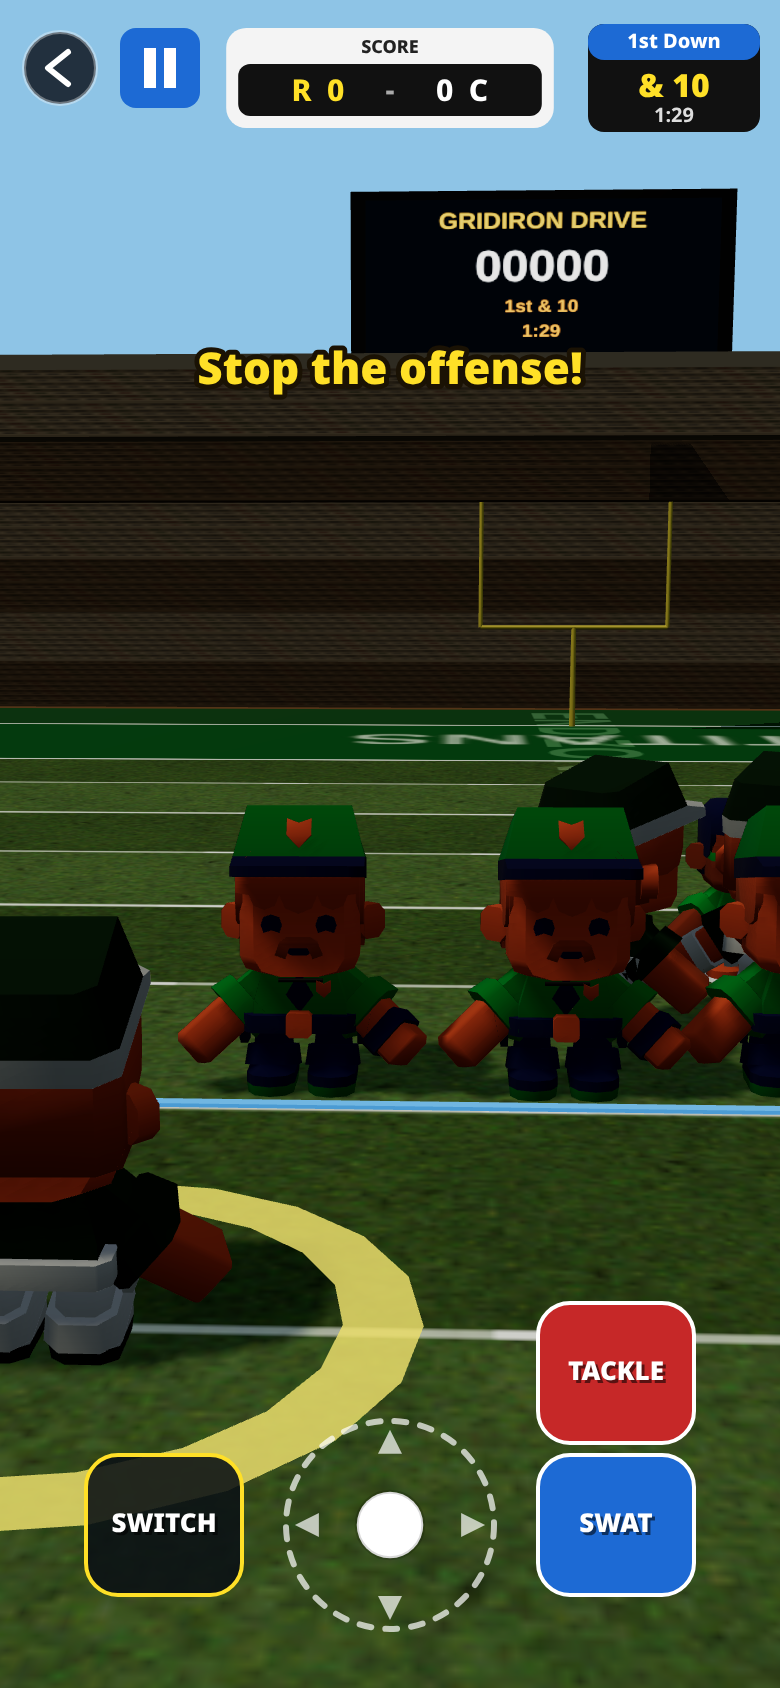
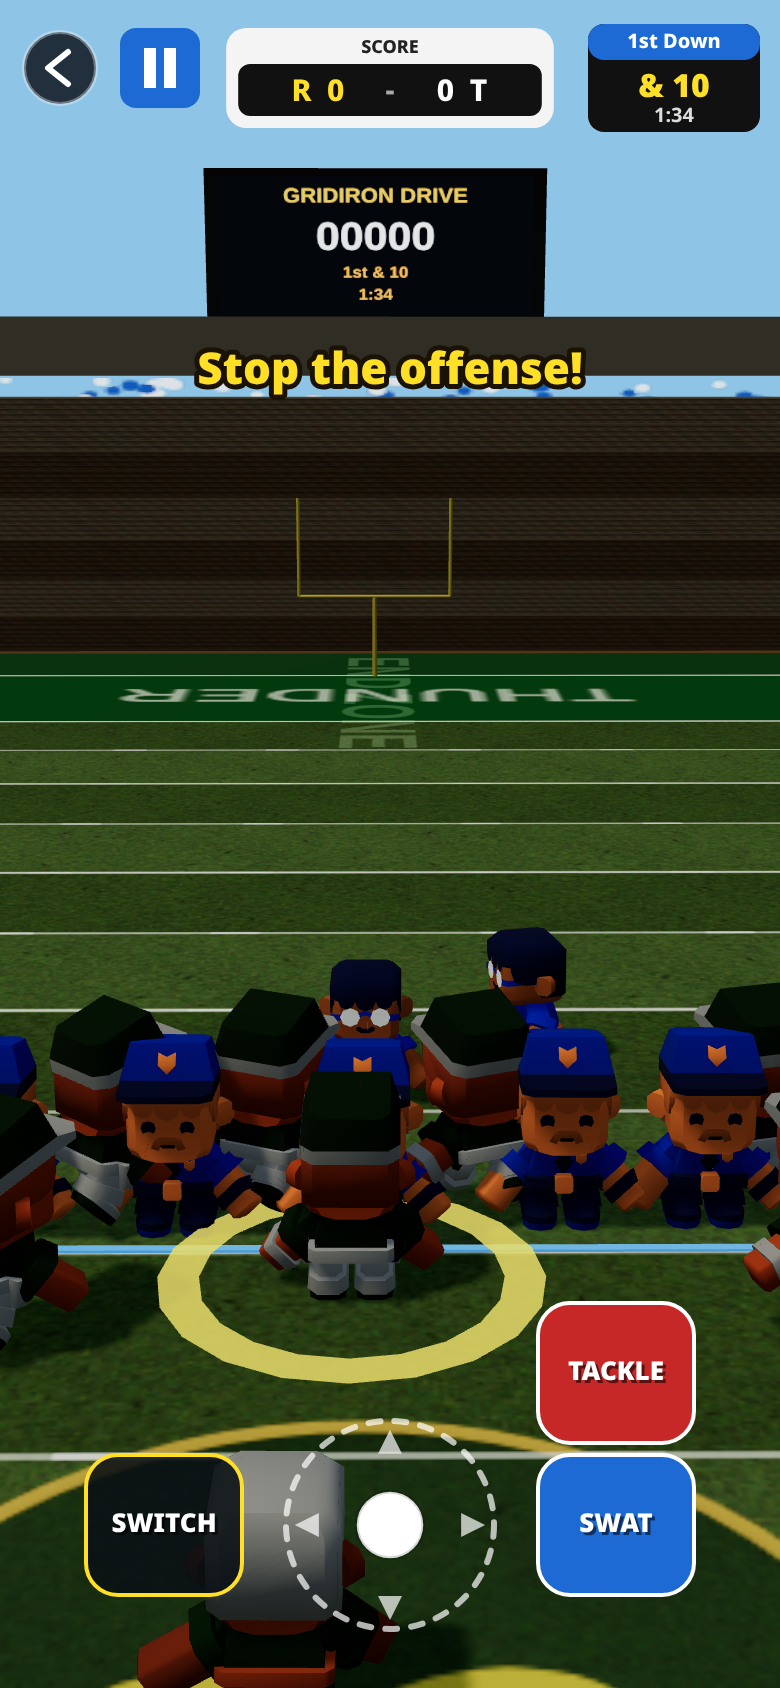
Rebalance user defense tackles and pull the camera back
AI teammates now contain instead of finishing plays before you can,
with a delayed wrap window; the user defender is faster with a longer
tackle/dive reach, and only the user can tackle in Defense Drill.
Default camera is a higher Madden-style view (Close / Madden / Far).

diff --git a/index.html b/index.html
@@ -48,6 +48,7 @@ function(t,e){"object"==typeof exports&&"undefined"!=typeof module?e(exports):"f
 
 
 
+
 (() => {
   "use strict";
 
@@ -161,12 +162,13 @@ function(t,e){"object"==typeof exports&&"undefined"!=typeof module?e(exports):"f
     state.best = parseInt(localStorage.getItem("gridironDriveBest") || "0", 10) || 0;
   } catch (e) { state.best = 0; }
   function defaultSettings() {
-    return { sound: true, vibrate: true, difficulty: "normal", camera: "standard", night: false };
+    return { sound: true, vibrate: true, difficulty: "normal", camera: "madden", night: false };
   }
   function loadSettings() {
     try {
-      const s = JSON.parse(localStorage.getItem("gridironDriveSettings") || "null");
-      return Object.assign(defaultSettings(), s || {});
+      const s = Object.assign(defaultSettings(), JSON.parse(localStorage.getItem("gridironDriveSettings") || "null") || {});
+      if (s.camera === "standard") s.camera = "madden";
+      return s;
     } catch (e) { return defaultSettings(); }
   }
   function saveSettings() {
@@ -176,6 +178,8 @@ function(t,e){"object"==typeof exports&&"undefined"!=typeof module?e(exports):"f
   state.muted = !state.settings.sound;
   const DIFF_MUL = { easy: 0.86, normal: 1, hard: 1.16 };
   const TACKLE_R = 1.08;
+  const USER_TACKLE_R = 1.62;
+  const USER_DIVE_R = 2.2;
 
   function odir() { return state.offDir < 0 ? -1 : 1; }
   function isUserOffense() { return state.gameMode !== "drill" && state.possession !== "away"; }
@@ -1280,6 +1284,7 @@ function(t,e){"object"==typeof exports&&"undefined"!=typeof module?e(exports):"f
       if (isUserOffense()) state.controlled = p;
       else if (p && p.team === "home") state.controlled = p;
     }
+    if (!isUserOffense() && p && p.team !== "home") autoSwitchToBall();
   }
 
   function tryCatch() {
@@ -1585,18 +1590,31 @@ function(t,e){"object"==typeof exports&&"undefined"!=typeof module?e(exports):"f
     sfx("whistle");
     haptic(12);
     setMsg(state.gameMode === "drill" ? "Stop the runner!" : "Stop the offense!", 2.0);
+    autoSwitchToBall();
   }
 
-  function switchDefender() {
-    if (isUserOffense()) return false;
+  function closestDefender(skip) {
     const ball = state.ball;
     const bx = ball ? ball.x : FIELD_W / 2, by = ball ? ball.y : state.los;
     let best = null, bestD = 1e9;
     for (const d of defense()) {
-      if (d.down || d === state.controlled) continue;
+      if (d.down || d === skip) continue;
       const dd = dist(d.x, d.y, bx, by);
       if (dd < bestD) { bestD = dd; best = d; }
     }
+    return best;
+  }
+
+  function autoSwitchToBall() {
+    if (isUserOffense()) return false;
+    const best = closestDefender(null);
+    if (best && best !== state.controlled) state.controlled = best;
+    return !!best;
+  }
+
+  function switchDefender() {
+    if (isUserOffense()) return false;
+    const best = closestDefender(state.controlled);
     if (best) { state.controlled = best; sfx("ui"); return true; }
     return false;
   }
@@ -1612,8 +1630,8 @@ function(t,e){"object"==typeof exports&&"undefined"!=typeof module?e(exports):"f
     const c = carrier() || (state.ball && state.ball.state === "air" ? { x: state.ball.x, y: state.ball.y } : null);
     if (c) {
       const ang = angTo(d.x, d.y, c.x, c.y);
-      d.vx = Math.cos(ang) * (d.speed * 1.7);
-      d.vy = Math.sin(ang) * (d.speed * 1.7);
+      d.vx = Math.cos(ang) * (d.speed * 1.95);
+      d.vy = Math.sin(ang) * (d.speed * 1.95);
     }
     sfx("whoosh");
     haptic(12);
@@ -1663,7 +1681,9 @@ function(t,e){"object"==typeof exports&&"undefined"!=typeof module?e(exports):"f
       if (rb && state.ball) {
         giveBall(rb, { keepControl: true });
         state.phase = "run";
+        state.runTime = 0;
         state.aiPlan = { kind: "run" };
+        autoSwitchToBall();
       }
     }
     return { mode: state.mode, phase: state.phase, possession: state.possession };
@@ -1904,6 +1924,8 @@ function(t,e){"object"==typeof exports&&"undefined"!=typeof module?e(exports):"f
 
   function updateLive(dt) {
     state.playTime += dt;
+    if (state.phase === "run") state.runTime = (state.runTime || 0) + dt;
+    else if (state.phase === "pass") state.runTime = 0;
     const axis = getMoveAxis();
     // flick uses screen-left/right so a juke still matches the swipe on screen
     const nx = axis.sx;
@@ -1916,7 +1938,7 @@ function(t,e){"object"==typeof exports&&"undefined"!=typeof module?e(exports):"f
       if (!u.diving || state.userDive > 0) {
         if (state.userDive <= 0 && state.userSwat <= 0) {
           const mag = Math.hypot(axis.x, axis.y);
-          if (mag > 0.08) steerPlayer(u, axis.x, axis.y, dt, 1.08);
+          if (mag > 0.08) steerPlayer(u, axis.x, axis.y, dt, 1.22);
           else steerPlayer(u, 0, 0, dt, 0.5);
           u.animState = Math.hypot(u.vx, u.vy) > 0.5 ? "run" : "idle";
         }
@@ -2037,7 +2059,8 @@ function(t,e){"object"==typeof exports&&"undefined"!=typeof module?e(exports):"f
         else if (d.cover) moveToward(d, d.cover.x + 0.4, d.cover.y + odir() * 0.9, d.speed * 0.96);
         else if (d.zone) moveToward(d, d.zone.x, d.zone.y, d.speed * 0.75);
       } else if (openField) {
-        pursueCarrier(d, carr);
+        if (!isUserOffense()) containCarrier(d, carr);
+        else pursueCarrier(d, carr);
       } else if ((d.role === "DL" || d.rush) && state.phase === "pass") {
         /* rushers are handled in updateLineBattle */
       } else if (crashQB && state.playTime >= POCKET_SAFE * 0.65) {
@@ -2125,6 +2148,18 @@ function(t,e){"object"==typeof exports&&"undefined"!=typeof module?e(exports):"f
     }
 
     updateTackles(dt);
+  }
+
+  function containCarrier(d, c) {
+    if (!d || !c) return;
+    const dir = odir();
+    const gap = dist(d.x, d.y, c.x, c.y);
+    const side = d.x <= c.x ? -2.4 : 2.4;
+    const tx = clamp(c.x + side, 2, FIELD_W - 2);
+    const ty = c.y + dir * 2.6;
+    const mul = gap < 2.8 ? 0.38 : 0.58;
+    moveToward(d, tx, ty, d.speed * mul);
+    d.animState = "run";
   }
 
   function pursueCarrier(d, c, spdMul) {
@@ -2219,16 +2254,46 @@ function(t,e){"object"==typeof exports&&"undefined"!=typeof module?e(exports):"f
       return;
     }
 
+    const user = !isUserOffense() ? state.controlled : null;
     const near = [];
     for (const d of defense()) {
       if (d.down) continue;
-      if (d.diving && !(d === state.controlled && state.userDive > 0)) continue;
+      if (d.diving && !(d === user && state.userDive > 0)) continue;
       const dd = dist(d.x, d.y, c.x, c.y);
-      if (dd < 5) near.push({ d, dd });
+      if (dd < 6) near.push({ d, dd });
     }
     near.sort((a, b) => a.dd - b.dd);
-    const inWrap = near.filter((n) => n.dd <= TACKLE_R);
+    const userR = (user && state.userDive > 0) ? USER_DIVE_R : USER_TACKLE_R;
+    const inWrap = near.filter((n) => n.dd <= (n.d === user ? userR : TACKLE_R));
     const closing = near.filter((n) => n.dd <= 3.05);
+
+    // User defense: the controlled defender is first to finish the play.
+    if (user && !isUserOffense()) {
+      const userHit = near.find((n) => n.d === user && n.dd <= userR);
+      if (userHit) {
+        beginTackle(user, c, { gang: false, byUser: true });
+        return;
+      }
+      // Defense Drill — only the user can tackle
+      if (state.gameMode === "drill") return;
+      const runT = state.phase === "run" ? (state.runTime || 0) : state.playTime;
+      const userRange = user && !user.down && dist(user.x, user.y, c.x, c.y) < 10.5;
+      const beaten = user.down || yardsGained(c.y) > yardsGained(user.y) + 2.0;
+      const aiWrap = inWrap.filter((n) => n.d !== user && n.dd <= 0.95);
+      const early = (state.phase === "run" && runT < 1.65) || (state.phase === "pass" && state.playTime < POCKET_SAFE + 1.35);
+      if (early && userRange && !beaten) return;
+      if (!beaten && userRange && runT < 2.4 && aiWrap.length < 2) return;
+      // Past the user or after a fair window: AI may wrap, but rarely on a single.
+      if (aiWrap.length >= 2 && (beaten || runT > 2.1 || state.playTime > POCKET_SAFE + 1.8)) {
+        beginTackle(aiWrap[0].d, c, { gang: true });
+        return;
+      }
+      if (aiWrap.length >= 1 && beaten && (runT > 1.5 || state.playTime > POCKET_SAFE + 1.5)) {
+        beginTackle(aiWrap[0].d, c, { gang: false });
+        return;
+      }
+      return;
+    }
 
     // Juke slider update
     if (state.juke && !state.juke.resolved) {
@@ -3295,6 +3360,57 @@ function(t,e){"object"==typeof exports&&"undefined"!=typeof module?e(exports):"f
     }
   }
 
+  function cameraStyle() {
+    const portrait = H > W * 1.05;
+    let id = (state.settings && state.settings.camera) || "madden";
+    if (id === "standard") id = "madden";
+    // Close is the old tight third-person; Madden is the default elevated broadcast view; Far is even wider.
+    if (id === "close") {
+      let back = portrait ? 9.2 : 8.2;
+      let height = portrait ? 4.8 : 4.2;
+      let lookAhead = 11;
+      let fov = portrait ? 55 : 48;
+      if (state.phase === "flight") { back = 8.2; height = 5.8; lookAhead = 7; fov += 4; }
+      if (state.phase === "run") { back = portrait ? 8.4 : 7.6; height = 4.3; lookAhead = 10; }
+      return { id, back, height, lookAhead, fov, center: 0.08 };
+    }
+    if (id === "far") {
+      return {
+        id,
+        back: portrait ? 22.5 : 20.0,
+        height: portrait ? 14.2 : 12.6,
+        lookAhead: portrait ? 17 : 16,
+        fov: portrait ? 50 : 46,
+        center: 0.18
+      };
+    }
+    // madden — higher, farther, both lines and the secondary in view on a 390x844 phone
+    return {
+      id: "madden",
+      back: portrait ? 17.4 : 15.6,
+      height: portrait ? 11.2 : 9.8,
+      lookAhead: portrait ? 15 : 14,
+      fov: portrait ? 52 : 48,
+      center: 0.14
+    };
+  }
+
+  function getCameraMetrics() {
+    const cam = gfx.camera;
+    const look = gfx._look;
+    const style = cameraStyle();
+    let dist = 0;
+    if (cam && look) dist = cam.position.distanceTo(look);
+    return {
+      style: style.id,
+      back: (state.cam && state.cam.back) || style.back,
+      height: (state.cam && state.cam.height) || style.height,
+      camY: cam ? cam.position.y : 0,
+      dist,
+      lookAhead: style.lookAhead
+    };
+  }
+
   function updateCamera(dt) {
     if (!gfx.camera) return;
     const cam = gfx.camera;
@@ -3329,30 +3445,30 @@ function(t,e){"object"==typeof exports&&"undefined"!=typeof module?e(exports):"f
       tx = state.ball.x; tz = state.ball.y; ty = Math.max(1.4, state.ball.z);
     } else if (carr) { tx = carr.x; tz = carr.y; ty = 1.5; }
 
-    const far = state.settings && state.settings.camera === "far";
-    let back = portrait ? 9.2 : 8.2;
-    let height = portrait ? 4.8 : 4.2;
-    let lookAhead = 11;
-    let fov = portrait ? 55 : 48;
-    if (state.phase === "flight") { back = 8.2; height = 5.8; lookAhead = 7; fov += 4; }
-    if (state.phase === "run") { back = portrait ? 8.4 : 7.6; height = 4.3; lookAhead = 10; }
-    if (state.mode === "celebrate") { back = 10; height = 5.2; lookAhead = 6; fov = 48; }
-    if (far) { back *= 1.28; height *= 1.22; fov -= 3; }
+    const style = cameraStyle();
+    let back = style.back, height = style.height, lookAhead = style.lookAhead, fov = style.fov;
+    if (state.mode === "celebrate") { back *= 0.92; height *= 0.9; lookAhead = Math.min(lookAhead, 10); }
     const spd = carr ? Math.hypot(carr.vx, carr.vy) : 0;
-    back += clamp(spd * 0.08, 0, 1.6);
-    fov += clamp(spd * 0.25, 0, 3);
-    cam.fov = lerp(cam.fov || fov, fov, clamp(dt * 3.2, 0, 1));
+    back += clamp(spd * 0.1, 0, 2.0);
+    fov += clamp(spd * 0.2, 0, 2.5);
+    // On defense, sit a little farther so both lines and the secondary stay in frame
+    if (!isUserOffense()) { back += 1.2; height += 0.6; lookAhead += 1.5; }
+    cam.fov = lerp(cam.fov || fov, fov, clamp(dt * 2.2, 0, 1));
     cam.updateProjectionMatrix();
-    const desired = new THREE.Vector3(lerp(tx, FIELD_W * 0.5, 0.08), height, tz - back);
+    const desired = new THREE.Vector3(lerp(tx, FIELD_W * 0.5, style.center), height, tz - back);
     if (state.shake > 0) {
-      desired.x += (Math.random() - 0.5) * state.shake * 0.5;
-      desired.y += (Math.random() - 0.5) * state.shake * 0.25;
+      desired.x += (Math.random() - 0.5) * state.shake * 0.4;
+      desired.y += (Math.random() - 0.5) * state.shake * 0.2;
     }
-    cam.position.lerp(desired, clamp(dt * 3.4, 0, 1));
+    // Smoother broadcast-style follow
+    cam.position.lerp(desired, clamp(dt * 2.05, 0, 1));
     const look = new THREE.Vector3(tx, ty, tz + lookAhead);
     if (!gfx._look) gfx._look = look.clone();
-    gfx._look.lerp(look, clamp(dt * 5, 0, 1));
+    gfx._look.lerp(look, clamp(dt * 2.6, 0, 1));
     cam.lookAt(gfx._look);
+    state.cam.back = back;
+    state.cam.height = height;
+    state.cam.style = style.id;
     if (gfx.sun) {
       gfx.sun.target.position.set(tx, 0, tz);
       gfx.sun.position.set(tx + 24, 48, tz - 16);
@@ -3939,7 +4055,7 @@ function(t,e){"object"==typeof exports&&"undefined"!=typeof module?e(exports):"f
     row("set-sound", "SOUND  ·  " + (s.sound ? "ON" : "OFF"));
     row("set-vibrate", "HAPTICS  ·  " + (s.vibrate ? "ON" : "OFF"));
     row("set-diff", "DIFFICULTY  ·  " + String(s.difficulty || "normal").toUpperCase());
-    row("set-cam", "CAMERA  ·  " + String(s.camera || "standard").toUpperCase());
+    row("set-cam", "CAMERA  ·  " + String(s.camera || "madden").toUpperCase());
     row("set-night", "LIGHTING  ·  " + (s.night ? "NIGHT" : "DAY"));
     btn("set-back", x, y + 10, bw, 48, "BACK", { size: 16, bg: "#1d6ad4", bd: "#fff", r: 12 });
   }
@@ -4169,7 +4285,10 @@ function(t,e){"object"==typeof exports&&"undefined"!=typeof module?e(exports):"f
       saveSettings(); sfx("click"); return;
     }
     if (id === "set-cam") {
-      state.settings.camera = state.settings.camera === "far" ? "standard" : "far";
+      const order = ["close", "madden", "far"];
+      const cur = state.settings.camera === "standard" ? "madden" : (state.settings.camera || "madden");
+      const i = Math.max(0, order.indexOf(cur));
+      state.settings.camera = order[(i + 1) % order.length];
       saveSettings(); sfx("click"); return;
     }
     if (id === "set-night") {
@@ -4432,6 +4551,9 @@ function(t,e){"object"==typeof exports&&"undefined"!=typeof module?e(exports):"f
     interceptBall,
     isUserOffense,
     resetInput,
+    getCameraMetrics,
+    cameraStyle,
+    autoSwitchToBall,
   };
 
   W = window.innerWidth || 800;
@@ -4453,6 +4575,7 @@ function(t,e){"object"==typeof exports&&"undefined"!=typeof module?e(exports):"f
 })();
 
   
+
 
 
 

diff --git a/README.md b/README.md
@@ -19,6 +19,8 @@ Pause has Resume, Restart, Settings, and Quit to Menu. The back arrow asks “Le
 
 **Computer:** WASD or arrows to aim or steer, Space to throw, R to scramble. On defense, T dives, F/J swats, Tab switches.
 
+The default camera is a higher Madden-style view that shows more of the field. Settings can switch it to Close or Far.
+
 Add the game to your home screen for a standalone app icon.
 
 ## Run it locally
